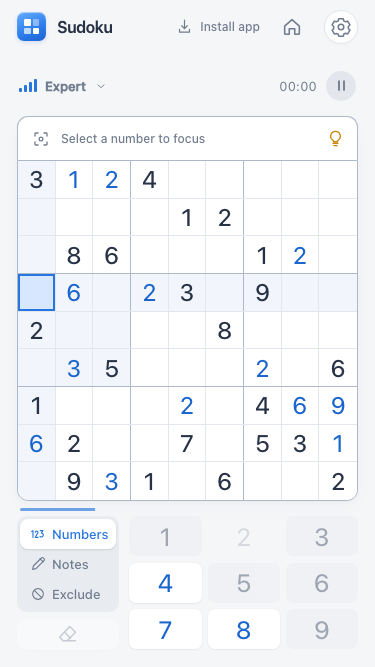
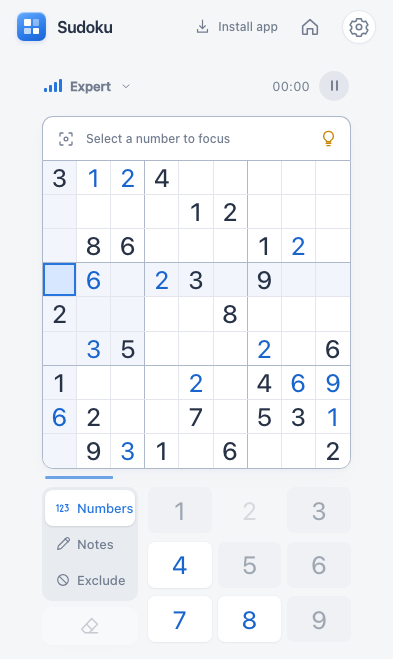
fix(keypad): shrink the board on short screens instead of scrolling or shrinking keys

diff --git a/src/components/game.tsx b/src/components/game.tsx
@@ -711,7 +711,7 @@ export default function SudokuGame() {
             <button className="puzzle-action secondary-puzzle-action" disabled={!game || paused || busy || complete} onClick={() => { setGame(current => current ? fillNotes(current) : current); closeSheet(); }}><Icon name="fill" size={20}/><span>Fill notes</span></button>
           </div>
           <p className="puzzle-actions-hint">Choose a new puzzle or start this one over.</p><div className="setting-section"><h3>Appearance</h3><div className="segmented">{(['system','light','dark'] as Theme[]).map(theme => <button key={theme} aria-pressed={preferences.theme === theme} className={preferences.theme === theme ? 'active' : ''} onClick={() => updatePreferences({ theme })}><span className="capitalize">{theme}</span></button>)}</div></div><div className="setting-row"><Icon name="shield" size={21}/><div className="setting-copy"><strong>Block incorrect answers</strong><p>Only accept answers that match the solution</p></div><button className="switch" role="switch" aria-checked={preferences.blockIncorrectAnswers} aria-label="Block incorrect answers" onClick={() => updatePreferences({ blockIncorrectAnswers: !preferences.blockIncorrectAnswers })}><span/></button></div><div className="setting-row"><Icon name="fill" size={21}/><div className="setting-copy"><strong>Highlight related cells</strong><p>Follow the row, column, and box</p></div><button className="switch" role="switch" aria-checked={preferences.highlightPeers} aria-label="Highlight related cells" onClick={() => updatePreferences({ highlightPeers: !preferences.highlightPeers })}><span/></button></div><div className="setting-row"><Icon name="sparkles" size={21}/><div className="setting-copy"><strong>Smart highlighting</strong><p>Select a filled cell to see where its number could go</p></div><button className="switch" role="switch" aria-checked={preferences.smartHighlighting} aria-label="Smart highlighting" onClick={() => updatePreferences({ smartHighlighting: !preferences.smartHighlighting })}><span/></button></div><div className="setting-row"><Icon name="filter" size={21}/><div className="setting-copy"><strong>Filter number keys</strong><p id="filter-setting-description">Dim numbers already in this row, column, or box.</p></div><button className="switch" role="switch" aria-checked={preferences.filterNumberKeys} aria-label="Filter number keys" aria-describedby="filter-setting-description" onClick={() => { setBlockedEntry(null); updatePreferences({ filterNumberKeys: !preferences.filterNumberKeys }); }}><span/></button></div><div className="setting-row"><Icon name="clock" size={21}/><div className="setting-copy"><strong>Hide timer</strong><p id="hide-timer-description">Keep tracking time without showing it.</p></div><button className="switch" role="switch" aria-checked={preferences.hideTimer} aria-label="Hide timer" aria-describedby="hide-timer-description" onClick={() => updatePreferences({ hideTimer: !preferences.hideTimer })}><span/></button></div><button className="text-button full-width help-action" onClick={() => { setSheet('help'); requestAnimationFrame(() => { dialog.current?.querySelector('.sheet-content')?.scrollTo?.(0, 0); dialog.current?.querySelector<HTMLButtonElement>('.sheet-close')?.focus(); }); }}><Icon name="help" size={16}/><span>How to play</span></button><p className="privacy-note">Your puzzles and preferences stay on this device.</p></>}
-        {sheet === 'help' && <><div className="sheet-symbol"><Icon name="help" size={28}/></div><h2 id="sheet-title">Nine numbers. One rule.</h2><p className="sheet-subtitle">Fill every row, column, and 3 × 3 box with the numbers 1–9, using each number just once.</p><div className="help-row"><Icon name="pencil"/><div><h3>Room for a possibility</h3><p>Drag from an empty cell to select cells immediately, or hold an empty cell to begin. Drag across other empty cells, or tap them to add or remove them from your selection. A selection uses Notes, or Exclude when Exclude is chosen. Tap a number to apply it to every selected cell. Afterward you stay in Notes or Exclude, or return to Numbers if you started there. Choosing Numbers cancels the selection. If every selected cell already has that note or exclusion, tapping the number removes it from all of them. Tap a filled cell or press Escape to finish selecting. These actions leave your notes unchanged. For repeated note entry in one cell, choose Notes. Entering a number clears that note from related cells.</p></div></div><div className="help-row"><Icon name="bulb"/><div><h3>Stuck? Ask for a hint</h3><p>Tap the bulb for a hint. Each tap shows a little more: the technique, where to look, then a step-by-step walkthrough of why the move works. Apply makes the move for you.</p></div></div><div className="help-row"><Icon name="learn"/><div><h3>Learn every technique</h3><p>All techniques on Home opens a lesson for each one: watch it on a real board, then find it yourself on practice boards.</p></div></div><div className="help-row"><Icon name="undo"/><div><h3>Try things out</h3><p>Undo in Settings takes back your last change, including notes. Redo restores an undone change. Both survive reopening; a new edit clears Redo. Erase clears your number or annotations from the selected cell, and dims when there is nothing to erase. The darker starting numbers stay in place.</p></div></div><div className="help-row"><Icon name="help"/><div><h3>Smart highlighting</h3><p>Enable Smart highlighting in Settings, then select a filled cell. Green cells show where its number is allowed by the current row, column, and box, excluding digits you have ruled out. Cells where you ruled it out turn faded red. These are possible placements, not guaranteed answers. Select an empty cell to clear the highlights when no digit is focused.</p></div></div><div className="help-row"><Icon name="help"/><div><h3>Keep a number in focus</h3><p>With a filled cell selected, tap a number in the number row to focus that digit. With an empty cell selected, the number row enters a value. You can also choose Focus on its number or hold a filled cell. Matching numbers and notes stay highlighted while you select empty cells or add notes. With Smart highlighting enabled, possible cells stay green too. Select another filled number to switch. Entering a number also switches focus to it. Clear focus stops focusing. Focus resets for a new puzzle or when you reopen the app.</p></div></div><div className="help-row"><Icon name="pencil"/><div><h3>Fill notes when you want</h3><p>Fill notes in Settings replaces notes in every empty cell with all possibilities allowed by placed numbers. Your crossed-out exclusions stay in place and are left out of the generated notes. Generated notes are blue; notes you edit use the normal text color. Undo restores the previous notes. Entering a number clears matching notes and exclusions from related cells. Notes do not otherwise update automatically.</p></div></div><div className="help-row"><Icon name="pencil"/><div><h3>Record what you rule out</h3><p>Choose Exclude and tap a number to cross it out in a cell. Tap again to clear it. Exclusions also remove that cell from Smart highlighting for that number. They never trigger deductions in other cells.</p></div></div><div className="help-row"><Icon name="filter"/><div><h3>Filter number keys</h3><p>Enable Filter number keys in Settings to dim numbers already in the selected cell’s row, column, or box, in every mode. Tapping or typing a dimmed number, or one with all nine placed, focuses that number instead of entering it. Available numbers are possibilities; Block incorrect answers checks them against the solution separately.</p></div></div><div className="keyboard-help"><h3>Using a keyboard?</h3><p><kbd>↑ ↓ ← →</kbd> Move between cells</p><p><kbd>1–9</kbd> Enter a number <kbd>N</kbd> Notes</p><p><kbd>X</kbd> Exclude. Press the same key again for Numbers.</p><p><kbd>H</kbd> Hint <kbd>Esc</kbd> Close hint</p><p><kbd>⌫</kbd> Erase <kbd>⌘ / Ctrl Z</kbd> Undo</p><p><kbd>⌘ / Ctrl Shift Z</kbd> Redo</p></div><button className="primary-button full-width" onClick={closeSheet}>Got it</button></>}
+        {sheet === 'help' && <><div className="sheet-symbol"><Icon name="help" size={28}/></div><h2 id="sheet-title">Nine numbers. One rule.</h2><p className="sheet-subtitle">Fill every row, column, and 3 × 3 box with the numbers 1–9, using each number just once.</p><div className="help-row"><Icon name="pencil"/><div><h3>Room for a possibility</h3><p>Drag from an empty cell to select cells immediately, or hold an empty cell to begin. Drag across other empty cells, or tap them to add or remove them from your selection. A selection uses Notes, or Exclude when Exclude is chosen. Tap a number to apply it to every selected cell. Afterward you stay in Notes or Exclude, or return to Numbers if you started there. Choosing Numbers cancels the selection. If every selected cell already has that note or exclusion, tapping the number removes it from all of them. Tap a filled cell or press Escape to finish selecting. These actions leave your notes unchanged. For repeated note entry in one cell, choose Notes. Entering a number clears that note from related cells.</p></div></div><div className="help-row"><Icon name="bulb"/><div><h3>Stuck? Ask for a hint</h3><p>Tap the bulb for a hint. Each tap shows a little more: the technique, where to look, then a step-by-step walkthrough of why the move works. Apply makes the move for you.</p></div></div><div className="help-row"><Icon name="learn"/><div><h3>Learn every technique</h3><p>All techniques on Home opens a lesson for each one: watch it on a real board, then find it yourself on practice boards.</p></div></div><div className="help-row"><Icon name="undo"/><div><h3>Try things out</h3><p>Undo in Settings takes back your last change, including notes. Redo restores an undone change. Both survive reopening; a new edit clears Redo. Erase clears your number or annotations from the selected cell, and dims when there is nothing to erase. The darker starting numbers stay in place.</p></div></div><div className="help-row"><Icon name="help"/><div><h3>Smart highlighting</h3><p>Enable Smart highlighting in Settings, then select a filled cell. Green cells show where its number is allowed by the current row, column, and box, excluding digits you have ruled out. Cells where you ruled it out turn faded red. These are possible placements, not guaranteed answers. Select an empty cell to clear the highlights when no digit is focused.</p></div></div><div className="help-row"><Icon name="help"/><div><h3>Keep a number in focus</h3><p>With a filled cell selected, tap a number in the number pad to focus that digit. With an empty cell selected, the number pad enters a value. You can also choose Focus on its number or hold a filled cell. Matching numbers and notes stay highlighted while you select empty cells or add notes. With Smart highlighting enabled, possible cells stay green too. Select another filled number to switch. Entering a number also switches focus to it. Clear focus stops focusing. Focus resets for a new puzzle or when you reopen the app.</p></div></div><div className="help-row"><Icon name="pencil"/><div><h3>Fill notes when you want</h3><p>Fill notes in Settings replaces notes in every empty cell with all possibilities allowed by placed numbers. Your crossed-out exclusions stay in place and are left out of the generated notes. Generated notes are blue; notes you edit use the normal text color. Undo restores the previous notes. Entering a number clears matching notes and exclusions from related cells. Notes do not otherwise update automatically.</p></div></div><div className="help-row"><Icon name="pencil"/><div><h3>Record what you rule out</h3><p>Choose Exclude and tap a number to cross it out in a cell. Tap again to clear it. Exclusions also remove that cell from Smart highlighting for that number. They never trigger deductions in other cells.</p></div></div><div className="help-row"><Icon name="filter"/><div><h3>Filter number keys</h3><p>Enable Filter number keys in Settings to dim numbers already in the selected cell’s row, column, or box, in every mode. Tapping or typing a dimmed number, or one with all nine placed, focuses that number instead of entering it. Available numbers are possibilities; Block incorrect answers checks them against the solution separately.</p></div></div><div className="keyboard-help"><h3>Using a keyboard?</h3><p><kbd>↑ ↓ ← →</kbd> Move between cells</p><p><kbd>1–9</kbd> Enter a number <kbd>N</kbd> Notes</p><p><kbd>X</kbd> Exclude. Press the same key again for Numbers.</p><p><kbd>H</kbd> Hint <kbd>Esc</kbd> Close hint</p><p><kbd>⌫</kbd> Erase <kbd>⌘ / Ctrl Z</kbd> Undo</p><p><kbd>⌘ / Ctrl Shift Z</kbd> Redo</p></div><button className="primary-button full-width" onClick={closeSheet}>Got it</button></>}
         {sheet === 'install' && <><AppMark/><h2 id="sheet-title">A place on your home screen</h2><p className="sheet-subtitle">Open straight into Sudoku, with more space to play. Once ready, Sudoku works offline too.</p>{installed ? <p className="install-instructions">Sudoku is already installed.</p> : installEvent ? <button className="primary-button full-width" onClick={async () => { try { await installEvent.prompt(); const choice = await installEvent.userChoice; if (choice.outcome === 'accepted') closeSheet(); setInstallEvent(null); } catch { setInstallEvent(null); } }}>Install Sudoku</button> : <div className="install-instructions"><h3>On iPhone or iPad</h3><p>Open in Safari, tap the Share button, then choose <strong>Add to Home Screen</strong>.</p><h3>On Android or desktop</h3><p>Open your browser menu and choose <strong>Install app</strong> or <strong>Add to Home screen</strong>, when available.</p></div>}<p className="privacy-note">{offlineReady ? 'Your app is ready for offline play.' : 'Connect to the internet for the first visit. Offline play becomes available after the app finishes downloading.'}</p><button className="text-button full-width" onClick={closeSheet}>Done</button></>}
       </div>
     </dialog>

diff --git a/src/app/globals.css b/src/app/globals.css
@@ -45,7 +45,7 @@ h1,h2,h3,p { margin: 0; }
 .install-button { display: flex; align-items: center; gap: 7px; min-height: 44px; font-size: 13px; font-weight: 500; color: var(--secondary); }
 .icon-button { width: 40px; height: 40px; display: grid; place-items: center; border-radius: 50%; color: var(--secondary); }
 .settings-button { background: var(--surface); box-shadow: 0 1px 3px #23395508; border: 1px solid var(--line); }
-.game { max-width: 444px; margin: 28px auto 0; }
+.game { --game-width: 444px; --around-board: 490px; max-width: max(280px, min(var(--game-width), calc(100svh - var(--around-board)))); margin: 28px auto 0; }
 .game-meta { position: relative; display: flex; align-items: center; justify-content: space-between; padding: 0 2px 11px; min-height: 55px; }
 .difficulty-button { display: flex; align-items: center; gap: 8px; color: var(--secondary); font-size: 13px; font-weight: 550; min-height: 30px; }
 .capitalize { text-transform: capitalize; }
@@ -84,7 +84,7 @@ h1,h2,h3,p { margin: 0; }
 .spinner { height: 27px; width: 27px; border-radius: 50%; border: 2px solid var(--line); border-top-color: var(--blue); animation: spin 700ms linear infinite; margin-bottom: 8px; }
 .progress-line { height: 3px; margin: 10px 3px 0; border-radius: 3px; overflow: hidden; }.progress-line span { display: block; height: 100%; background: var(--blue); transform-origin: left; transition: transform 180ms ease; opacity: .65; }
 
-.number-pad { display: grid; grid-template-columns: repeat(3, minmax(0,1fr)); gap: 8px; user-select: none; }.number-key { background: var(--surface); border-radius: 8px; height: 65px; display: flex; flex-direction: column; justify-content: center; align-items: center; gap: 4px; color: var(--blue-strong); box-shadow: 0 1px 2px #2339550e, 0 0 0 1px #23395504; }.number-key>span { font-size: 27px; font-weight: 430; line-height: 1; }.number-key:disabled { opacity: .42; }
+.number-pad { display: grid; grid-template-columns: repeat(3, minmax(0,1fr)); gap: 8px; user-select: none; }.number-key { background: var(--surface); border-radius: 8px; height: 56px; display: flex; flex-direction: column; justify-content: center; align-items: center; gap: 4px; color: var(--blue-strong); box-shadow: 0 1px 2px #2339550e, 0 0 0 1px #23395504; }.number-key>span { font-size: 27px; font-weight: 430; line-height: 1; }.number-key:disabled { opacity: .42; }
 .desktop-caption { text-align: center; font-size: 11px; color: var(--secondary); margin: 42px 0 5px; opacity: .8; }
 .notice { display: flex; align-items: center; gap: 8px; padding: 12px; border-radius: 9px; background: var(--blue-soft); font-size: 12px; margin-top: 15px; }.notice button { padding: 8px; margin-left: auto; }.storage-warning { font-size: 12px; line-height: 1.5; color: var(--red); margin-top: 12px; }
 .completion { display: flex; align-items: center; gap: 13px; padding: 28px 0; animation: cover-in 220ms ease; }.completion h2 { font-size: 21px; letter-spacing: -.4px; }.completion p { color: var(--secondary); font-size: 12px; margin-top: 4px; }.completion .primary-button { margin-left: auto; }.success-mark { width: 45px; height: 45px; display: grid; place-items: center; color: var(--green); background: color-mix(in srgb, var(--green) 12%, transparent); border-radius: 50%; }.is-complete { border-color: var(--green); }
@@ -103,17 +103,17 @@ h1,h2,h3,p { margin: 0; }
   .icon-button:hover { background: var(--line); }
   .install-button:hover { color: var(--blue); }
 }
-@media (min-width: 601px) and (max-height: 950px) { .app-bar { height: 68px; }.game { margin-top: 12px; max-width: 420px; }.desktop-caption { margin-top: 22px; } }
+@media (min-width: 601px) and (max-height: 950px) { .app-bar { height: 68px; }.game { margin-top: 12px; --game-width: 420px; --around-board: 452px; }.desktop-caption { margin-top: 22px; } }
 @media (max-width: 600px) {
   .app { padding-left: max(17px,env(safe-area-inset-left)); padding-right: max(17px,env(safe-area-inset-right)); padding-bottom: max(10px,env(safe-area-inset-bottom)); }
   .app-bar { height: 66px; }.brand { font-size: 16px; }.app-actions { gap: 12px; }.settings-button { width: 34px; height: 34px; }.install-button { font-size: 12px; }
-  .game { margin-top: 19px; }
-  .game-meta { padding-bottom: 9px; }.number-pad { gap: 5px; }.number-key { height: 59px; border-radius: 7px; }.number-key>span { font-size: 25px; }.desktop-caption { display: none; }
+  .game { margin-top: 19px; --around-board: 410px; }
+  .game-meta { padding-bottom: 9px; }.number-pad { gap: 5px; }.number-key { border-radius: 7px; }.number-key>span { font-size: 25px; }.desktop-caption { display: none; }
   .sheet { width: 100%; max-width: 100%; max-height: 92svh; margin: auto 0 0; border-radius: 22px 22px 0 0; border-bottom: 0; }.sheet-content { padding: 31px 25px max(20px,env(safe-area-inset-bottom)); }.sheet-handle { display: block; position: absolute; width: 32px; height: 4px; border-radius: 4px; background: var(--line); top: 10px; left: calc(50% - 16px); }.sheet-close { top: 15px; }.sheet h2 { font-size: 23px; }
   .completion { gap: 10px; }.completion h2 { font-size: 19px; }.completion p { font-size: 11px; }.completion .primary-button { font-size: 12px; padding: 0 12px; }
 }
 @media (max-width: 600px) and (max-height: 760px) {
-  .app-bar { height: 53px; }.game { margin-top: 8px; max-width: 354px; }.game-meta { padding-bottom: 6px; }.number-key { height: 52px; }.progress-line { margin-top: 7px; }
+  .app-bar { height: 53px; }.game { margin-top: 8px; --game-width: 354px; --around-board: 350px; }.game-meta { padding-bottom: 6px; }.progress-line { margin-top: 7px; }
 }
 @media (max-width: 360px) { .app { padding-left: 12px; padding-right: 12px; }.install-button>span { display: none; }.number-pad { gap: 4px; }.cell-number,.rejected-digit { font-size: 23px; }.number-key>span { font-size: 23px; }.sheet-content { padding-left: 20px; padding-right: 20px; } }
 @media (max-width: 600px) and (max-height: 640px) { .progress-line { margin-top: 5px; } }
@@ -181,7 +181,7 @@ h1,h2,h3,p { margin: 0; }
 .number-pad .number-key.digit-filtered { background: color-mix(in srgb, var(--line) 45%, var(--canvas)); box-shadow: none; opacity: .65; }.number-pad .number-key.digit-filtered>span { color: var(--secondary); }
 .number-pad .number-key.digit-finished { background: transparent; box-shadow: none; }.number-pad .number-key.digit-finished>span { color: var(--secondary); opacity: .35; }
 @media (hover: hover) { .number-pad .number-key.digit-finished:hover { background: transparent; } }
-.number-pad.mode-note .number-key,.number-pad.mode-exclude .number-key { display: grid; grid-template: repeat(3, 1fr) / repeat(3, 1fr); place-items: center; padding: 7px 5px; gap: 0; }.number-pad.mode-note .number-key>span,.number-pad.mode-exclude .number-key>span { font-size: 13px; line-height: 1; font-weight: 500; }.number-pad.mode-exclude .number-key>span::after { height: 1.5px; margin-top: -.75px; }
+.number-pad.mode-note .number-key,.number-pad.mode-exclude .number-key { display: grid; grid-template: repeat(3, 1fr) / repeat(3, 1fr); place-items: center; padding: 6px 12px; gap: 0; }.number-pad.mode-note .number-key>span,.number-pad.mode-exclude .number-key>span { font-size: 17px; line-height: 1; font-weight: 600; }.number-pad.mode-exclude .number-key>span::after { height: 1.5px; margin-top: -.75px; }
 .help-action { display: flex; align-items: center; justify-content: center; gap: 6px; }
 .hint-button { display: grid; place-items: center; flex-shrink: 0; width: 44px; height: 43px; border-radius: 7px; color: var(--hint); }.hint-button:disabled { opacity: .4; }
 .digit-focus-bar.hint-strip { gap: 8px; padding-left: 12px; background: var(--hint-soft); }
@@ -210,12 +210,8 @@ h1,h2,h3,p { margin: 0; }
 .walk-ghost { position: absolute; inset: 0; display: grid; place-items: center; font-size: clamp(23px, 6.4vw, 29px); line-height: 1; font-weight: 460; color: var(--hint-strong); pointer-events: none; }
 .board-wrap.walkthrough .cell.walk-answer .notes { visibility: hidden; }
 .controls-area { position: relative; display: grid; grid-template-columns: minmax(96px, 30%) minmax(0, 1fr); gap: 10px; margin-top: 12px; }
-.number-pad .number-key { height: 56px; }
-.number-pad:is(.mode-note, .mode-exclude) .number-key { padding: 6px 12px; }
-.number-pad:is(.mode-note, .mode-exclude) .number-key>span { font-size: 17px; font-weight: 600; }
-@media (max-height: 760px) { .number-pad { gap: 6px; } .number-pad .number-key { height: 42px; } .controls-area { margin-top: 8px; } .note-controls { gap: 6px; } .mode-option { min-height: 32px; } .erase-control { min-height: 34px; } }
-@media (max-height: 700px) { .number-pad .number-key { height: 40px; } .controls-area { margin-top: 5px; } .mode-option { min-height: 30px; } .erase-control { min-height: 32px; } }
-@media (max-height: 640px) { .number-pad .number-key { height: 36px; } .mode-option { min-height: 28px; } .erase-control { min-height: 30px; } }
+@media (max-height: 760px) { .number-pad { gap: 6px; } .number-pad .number-key { height: 46px; } .controls-area { margin-top: 8px; } .note-controls { gap: 6px; } .mode-option { min-height: 36px; } .erase-control { min-height: 38px; } }
+
 .walk-panel { position: absolute; top: 0; left: 0; right: 0; min-height: 100%; z-index: 5; display: flex; flex-direction: column; gap: 8px; padding: 12px 16px; border-radius: 16px; background: var(--hint-soft); border: 1px solid color-mix(in srgb, var(--hint) 35%, transparent); }
 .walk-panel-head { display: flex; align-items: center; justify-content: space-between; font-size: 13px; color: var(--hint-strong); text-transform: uppercase; letter-spacing: .04em; }
 .walk-panel p { margin: 0; font-size: 16px; line-height: 1.4; color: var(--ink); }

diff --git a/e2e/keypad.spec.ts b/e2e/keypad.spec.ts
@@ -49,7 +49,9 @@ test('the mode indicator sits on the chosen mode', async ({ page }) => {
   }
 });
 
-for (const size of [{ width: 390, height: 844 }, { width: 375, height: 667 }]) {
+// Full-screen phones, phones in Safari with the browser bars showing, laptops, and an iPad in landscape.
+const SIZES = [[390, 844], [375, 667], [393, 659], [375, 628], [390, 664], [360, 640], [1440, 790], [1280, 761], [1024, 768], [1440, 900]].map(([width, height]) => ({ width, height }));
+for (const size of SIZES) {
   test(`the game fits without scrolling at ${size.width} × ${size.height}`, async ({ page }) => {
     await page.setViewportSize(size);
     await seed(page);
@@ -59,3 +61,25 @@ for (const size of [{ width: 390, height: 844 }, { width: 375, height: 667 }]) {
     expect(layout.pad).toBeLessThanOrEqual(layout.height);
   });
 }
+
+test('keys and tools stay at least 36px tall on short screens', async ({ page }) => {
+  await page.setViewportSize({ width: 375, height: 628 });
+  await seed(page);
+  await openGame(page);
+  for (const selector of ['.number-pad .number-key', '.mode-option', '.erase-control']) {
+    expect((await page.locator(selector).first().boundingBox())!.height).toBeGreaterThanOrEqual(36);
+  }
+});
+
+test('in Notes mode each key shows its digit in that digit’s note position', async ({ page }) => {
+  await seed(page);
+  await openGame(page);
+  await page.locator('.mode-option.mode-note').click();
+  for (const digit of [1, 5, 9]) {
+    const [k, d] = await Promise.all([key(page, digit), box(page, `.number-pad .number-key:nth-child(${digit}) > span`)]);
+    const col = (d.x + d.width / 2 - k.x) / k.width, row = (d.y + d.height / 2 - k.y) / k.height;
+    const expected = (digit - 1) % 3, expectedRow = Math.floor((digit - 1) / 3);
+    expect(Math.floor(col * 3)).toBe(expected);
+    expect(Math.floor(row * 3)).toBe(expectedRow);
+  }
+});

diff --git a/docs/plans/2026-09-28-keypad-grid-design.md b/docs/plans/2026-09-28-keypad-grid-design.md
@@ -6,7 +6,8 @@ Roadmap item: R8, number grid keypad. On September 28 Sean chose A, tools beside
 
 - The one-row number pad becomes a 3 × 3 grid on the right: 1 2 3, 4 5 6, 7 8 9, like a phone keypad and like a cell's notes.
 - On the left, Numbers, Notes, and Exclude stack vertically, with Erase below them. The mode indicator slides up and down to the active mode.
-- The board keeps its size. Keys shrink on short screens so the game never scrolls: 56px tall on a 390 × 844 phone, smaller below 760px of height.
+- Keys are 56px tall, and 46px below 760px of height; the mode buttons and Erase stay at least 36px.
+- On short screens (phones in Safari with the browser bars showing, laptops, iPad in landscape), the board shrinks to fit the height left after everything else, down to 280px wide, so the game doesn't scroll. On a 390 × 844 phone the board keeps its full width.
 
 ## Keys
 
@@ -15,4 +16,4 @@ Roadmap item: R8, number grid keypad. On September 28 Sean chose A, tools beside
 
 ## Tests
 
-- **Browser:** the keys form three rows of three in order; the modes stack to the left of the grid with Erase below them; the indicator sits on the active mode; the game fits without scrolling at 390 × 844 and 375 × 667.
+- **Browser:** the keys form three rows of three in order; the modes stack to the left of the grid with Erase below them; the indicator sits on the active mode; the game fits without scrolling at ten phone, laptop, and iPad sizes; keys and tools stay at least 36px tall; Notes mode puts each digit in its note position.

diff --git a/README.md b/README.md
@@ -29,7 +29,7 @@ The build generates `public/sw.js` after Next.js finishes, precaching the comple
 ## Play
 
 - The app opens on Home: continue the puzzle in progress, start an Easy, Medium, Hard or Expert puzzle, open the next lesson, or browse all techniques. Home also shows how many puzzles you have solved and, until the app is installed, an install card. The Home button or the browser's back button returns there from a game.
-- Select an empty cell, then a number to enter it. With a filled cell selected, the number row and digit keys focus that digit without replacing the value. Starting numbers cannot be changed. With Block incorrect answers on, a wrong number is refused and shown struck through in red.
+- Select an empty cell, then a number to enter it. With a filled cell selected, the number pad and digit keys focus that digit without replacing the value. Starting numbers cannot be changed. With Block incorrect answers on, a wrong number is refused and shown struck through in red.
 - The Numbers | Notes | Exclude control switches what the number keys do. Notes add or remove pencil marks; Exclude crosses out digits and removes those cells from Smart highlighting for that digit.
 - Drag across empty cells, or hold one, to select several. A number then toggles that note or exclusion in every selected cell. Tap a filled cell or press Escape to finish.
 - Erase clears your number or annotations from the selected cell. It stays visible and dims when there is nothing to erase.
